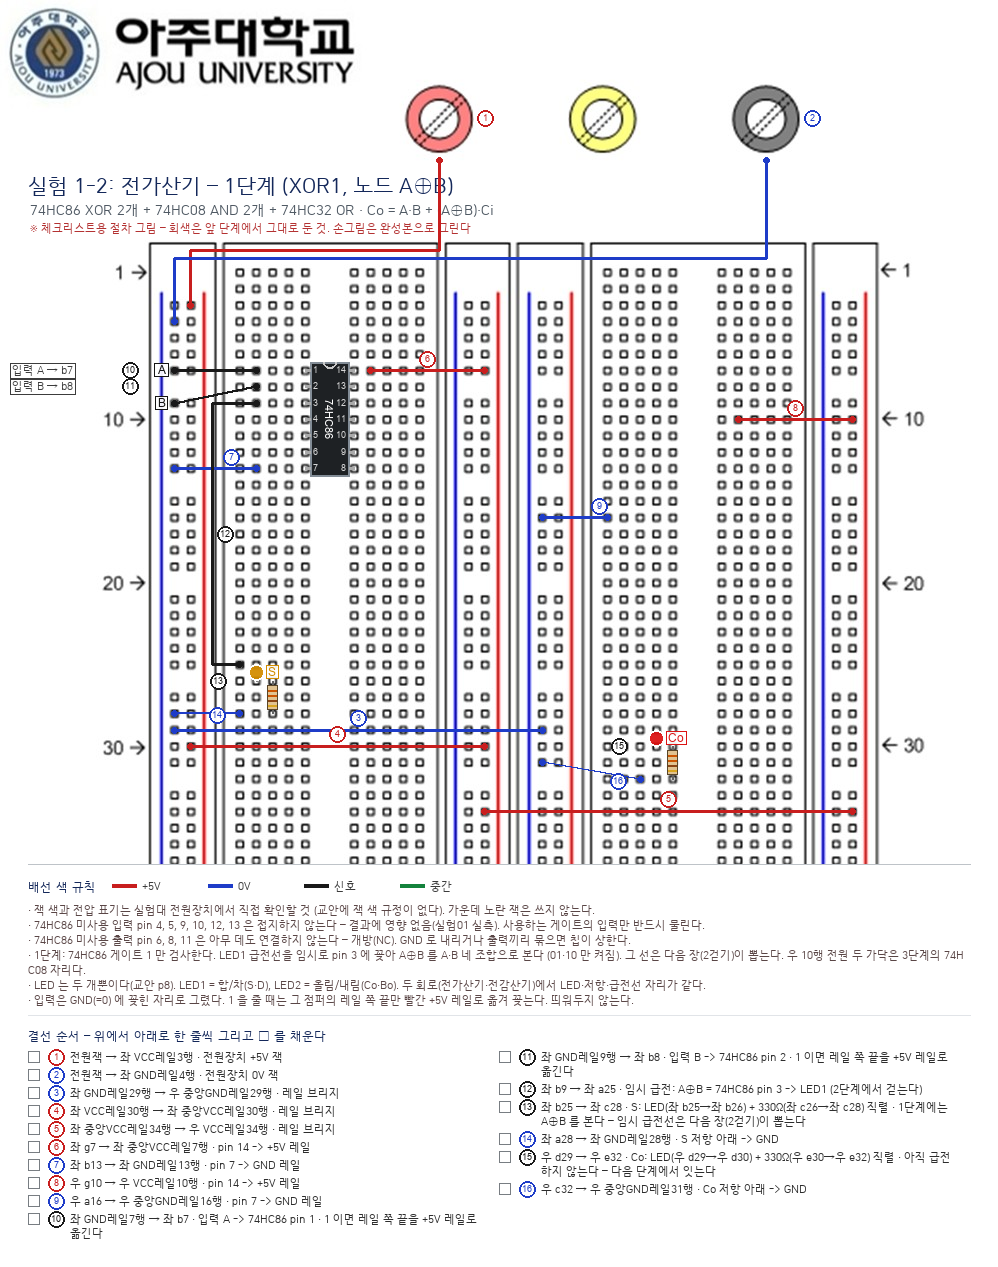
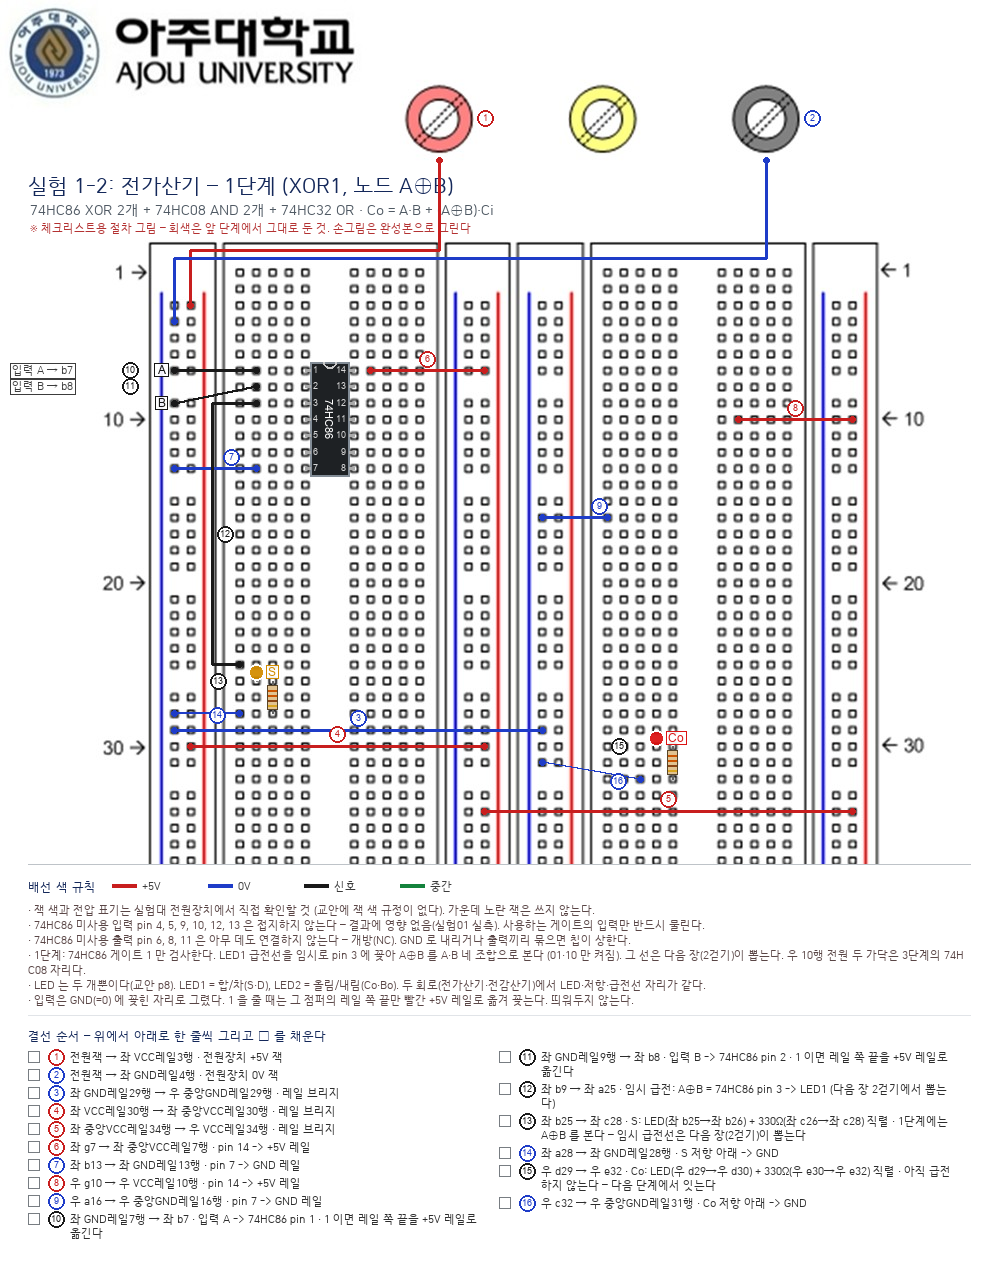
fix(lab): 순서표 문구를 걷기 보드 어휘로 맞춘다
임시 급전선 두 줄이 순서표에 "2단계에서 걷는다"/"다음 단계에서 걷는다"
라고 인쇄됐다. 걷기는 이제 그 앞의 전용 보드에서 일어나고 단계 보드는
아무것도 걷지 않는다 — 같은 그림 footer 가 이미 "다음 장이 뽑는다" 라
순서표와 어휘가 갈렸다. 완성본 둘은 이 문구가 단계 경로에만 있어
바이트 불변이다.

Changed region(s): [[0.497, 0.8311, 0.9629, 0.9542]]

diff --git a/보고서/실험03/결선도/배치.py b/보고서/실험03/결선도/배치.py
@@ -181,7 +181,7 @@ def _e3_draw(bb, circuit, stage):
         # 임시 프로브 — LED1 을 XOR1 출력에 물려 A⊕B 를 본다. 2단계 첫머리에서 걷는다
         bb.step_wire([(c['b'], L(9)), (_E3_LANE, L(9)),
                       (_E3_LANE, L(_E3_LED1)), (c['a'], L(_E3_LED1))], 'sig',
-                     '임시 급전: A⊕B = 74HC86 pin 3 -> LED1 (2단계에서 걷는다)',
+                     '임시 급전: A⊕B = 74HC86 pin 3 -> LED1 (다음 장 2걷기에서 뽑는다)',
                      marker_at=(_E3_LANE + 13, L(17)))
     elif at(fa=2):
         src_row, src_pin = (12, 6) if full else (9, 3)
@@ -253,7 +253,7 @@ def _e3_draw(bb, circuit, stage):
               ('fs', 1): (12, "A'·B = 74HC08 pin 3")}.get((circuit, stage))
     if probe2 is not None:
         bb.step_wire([(r['c'], L(probe2[0])), (r['c'], L(_E3_LED2))], 'sig',
-                     f'임시 급전: {probe2[1]} -> LED2 (다음 단계에서 걷는다)',
+                     f'임시 급전: {probe2[1]} -> LED2 (다음 장 걷기에서 뽑는다)',
                      marker_at=(r['c'] - 16, L(20)))
     elif full and at(fa=5, fs=2):
         bb.step_wire([(r['c'], L(_E3_S4 + 2)), (r['c'], L(_E3_LED2))], 'sig',
